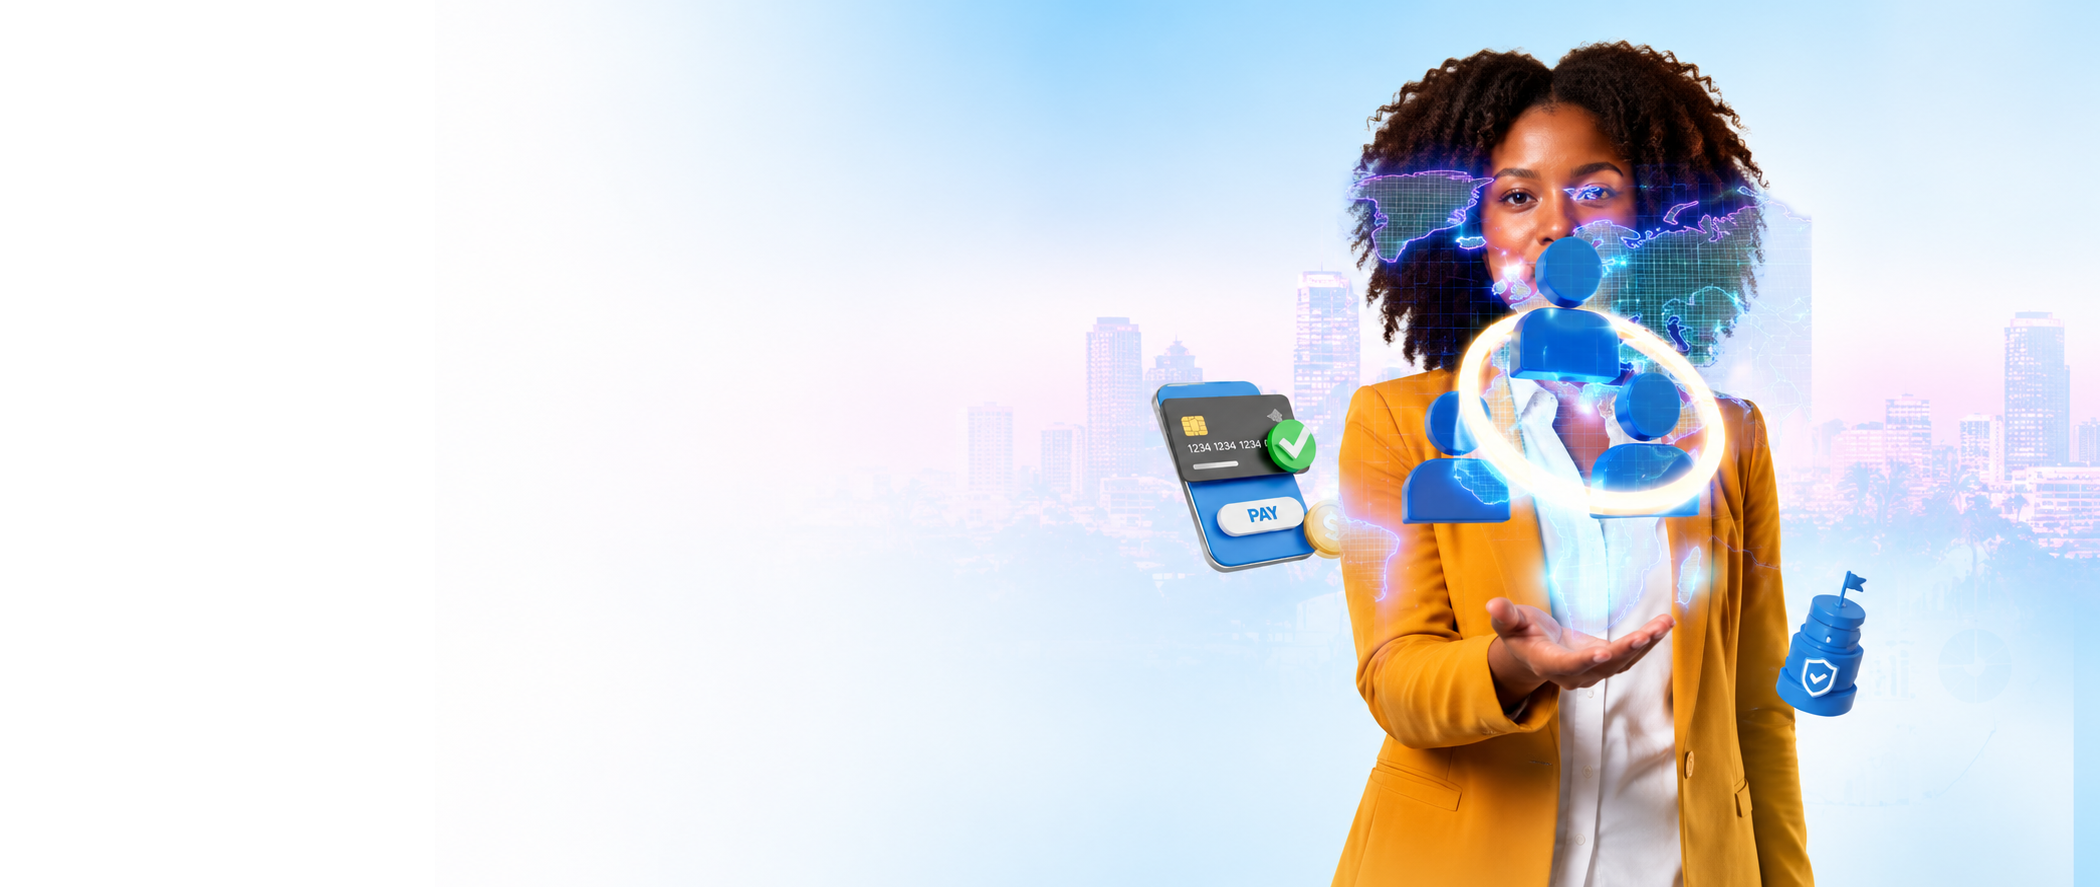
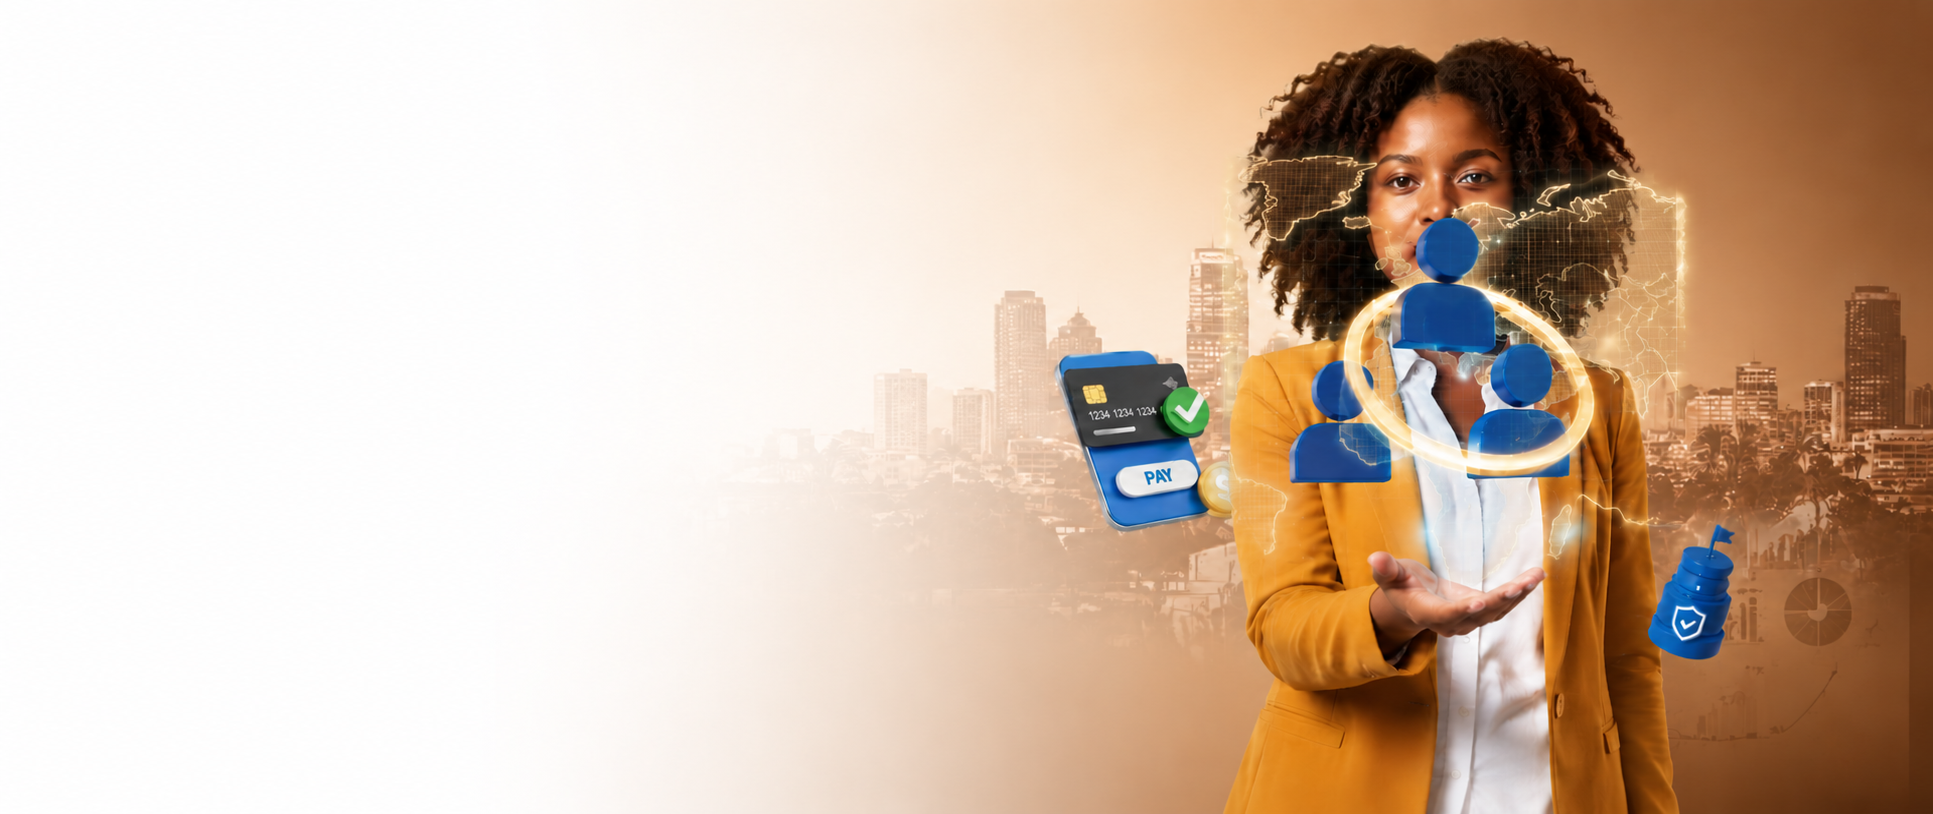
Form submission, color change

diff --git a/public/css/cherub.css b/public/css/cherub.css
@@ -6,8 +6,8 @@
   --green-dark: #924228;
   --green-mid: #7a3520;
   --caribbean: #07d788;
-  --zanah: #CAE7C7;
-  --supernova: #FCCC04;
+  --zanah: #fde8d0;
+  --supernova: #fe7c02;
   --orange: #fe7c02;
   --orange-hover: #924228;
   --text: #111111;
@@ -15,7 +15,7 @@
   --text-light: #888888;
   --border: #e0e0e0;
   --bg: #ffffff;
-  --bg-light: #edf7ed;
+  --bg-light: #fdf1e9;
   --radius: 6px;
   --max-w: 1760px;
   --px: 52px;
@@ -1339,7 +1339,7 @@ img { max-width: 100%; display: block; }
   height: 54px;
   border-radius: 50%;
   background: var(--supernova);
-  color: var(--green-dark);
+  color: #fff;
   font-weight: 800;
   font-size: 17px;
   display: flex;
@@ -1776,12 +1776,39 @@ img { max-width: 100%; display: block; }
   justify-content: center;
   gap: 9px;
 }
-.ch-form__submit:hover { background: var(--green-mid); }
+.ch-form__submit:hover:not(:disabled) { background: var(--green-mid); }
+.ch-form__submit:disabled { opacity: 0.75; cursor: not-allowed; }
+
+.ch-form__submit-loading { display: none; align-items: center; gap: 9px; }
+.ch-form__submit--loading .ch-form__submit-idle { display: none; }
+.ch-form__submit--loading .ch-form__submit-loading { display: flex; }
+
+@keyframes ch-spin { to { transform: rotate(360deg); } }
+.ch-form__spinner {
+  width: 16px;
+  height: 16px;
+  border: 2px solid rgba(255,255,255,0.35);
+  border-top-color: #fff;
+  border-radius: 50%;
+  animation: ch-spin 0.7s linear infinite;
+  flex-shrink: 0;
+}
 .ch-form__note {
   text-align: center;
   font-size: 12px;
   color: var(--text-light);
   margin-top: 12px;
+}
+/* Honeypot trap: visually hidden but present in DOM so bots fill it */
+.ch-hp-trap {
+  position: absolute;
+  left: -9999px;
+  top: -9999px;
+  width: 1px;
+  height: 1px;
+  overflow: hidden;
+  opacity: 0;
+  pointer-events: none;
 }
 
 /* =========================================================
@@ -2345,7 +2372,7 @@ img { max-width: 100%; display: block; }
 /* Accent gradient shimmer on hero heading */
 .ch-hero__heading .accent {
   display: inline-block;
-  background: linear-gradient(110deg, var(--orange) 0%, #d86526 38%, var(--supernova) 65%, var(--orange) 100%);
+  background: linear-gradient(110deg, var(--orange) 0%, #d86526 38%, var(--caribbean) 65%, var(--orange) 100%);
   background-size: 220% auto;
   -webkit-background-clip: text;
   -webkit-text-fill-color: transparent;

diff --git a/resources/views/front/contact.blade.php b/resources/views/front/contact.blade.php
@@ -117,9 +117,9 @@
     <!-- RIGHT: Form -->
     <div>
       @if(session('success'))
-        <div style="background:#dcfce7;border:1px solid #86efac;border-radius:6px;padding:20px 24px;margin-bottom:24px;display:flex;align-items:center;gap:12px;">
-          <i class="fas fa-check-circle" style="color:#16a34a;font-size:20px;"></i>
-          <p style="font-size:14px;color:#166534;font-weight:600;">{{ session('success') }}</p>
+        <div style="background:#fdf1e9;border:1px solid #fec78a;border-radius:6px;padding:20px 24px;margin-bottom:24px;display:flex;align-items:center;gap:12px;">
+          <i class="fas fa-check-circle" style="color:#fe7c02;font-size:20px;"></i>
+          <p style="font-size:14px;color:#924228;font-weight:600;">{{ session('success') }}</p>
         </div>
       @endif
 
@@ -208,14 +208,33 @@
             @error('message')<p style="font-size:12px;color:#dc2626;margin-top:4px;">{{ $message }}</p>@enderror
           </div>
 
-          <button type="submit" class="ch-form__submit">
-            Send Message <i class="fas fa-paper-plane"></i>
+          {{-- Honeypot: invisible to humans, bots fill it automatically --}}
+          <div class="ch-hp-trap" aria-hidden="true">
+            <label for="hp_fullname">Full Name (leave blank)</label>
+            <input type="text" name="hp_fullname" id="hp_fullname" value="" autocomplete="off" tabindex="-1">
+          </div>
+          <input type="hidden" name="form_ts" value="{{ time() }}">
+
+          <button type="submit" class="ch-form__submit" id="contactSubmitBtn">
+            <span class="ch-form__submit-idle">Send Message <i class="fas fa-paper-plane"></i></span>
+            <span class="ch-form__submit-loading" aria-hidden="true">
+              <span class="ch-form__spinner"></span> Sending…
+            </span>
           </button>
           <p class="ch-form__note">
             <i class="fas fa-lock" style="margin-right:4px;"></i>
             Your information is kept confidential and never shared with third parties.
           </p>
         </form>
+
+        <script>
+          document.querySelector('form[action="{{ route('contact.send') }}"]')
+            .addEventListener('submit', function () {
+              var btn = document.getElementById('contactSubmitBtn');
+              btn.disabled = true;
+              btn.classList.add('ch-form__submit--loading');
+            });
+        </script>
       </div>
     </div>
 

diff --git a/resources/views/emails/contact.blade.php b/resources/views/emails/contact.blade.php
@@ -1,0 +1,62 @@
+<!DOCTYPE html>
+<html lang="en">
+<head>
+  <meta charset="UTF-8">
+  <style>
+    body { font-family: Arial, sans-serif; color: #111; margin: 0; padding: 0; background: #f4f4f4; }
+    .wrap { max-width: 600px; margin: 32px auto; background: #fff; border-radius: 8px; overflow: hidden; }
+    .header { background: #924228; padding: 28px 32px; }
+    .header h1 { color: #fff; font-size: 18px; margin: 0; }
+    .header p { color: rgba(255,255,255,0.75); font-size: 13px; margin: 6px 0 0; }
+    .body { padding: 32px; }
+    .field { margin-bottom: 20px; }
+    .label { font-size: 11px; font-weight: 700; text-transform: uppercase; letter-spacing: 0.1em; color: #888; margin-bottom: 4px; }
+    .value { font-size: 15px; color: #111; }
+    .message-box { background: #fdf1e9; border-left: 4px solid #fe7c02; padding: 16px 20px; border-radius: 4px; font-size: 15px; line-height: 1.7; color: #333; }
+    .footer { background: #f9f9f9; border-top: 1px solid #eee; padding: 20px 32px; font-size: 12px; color: #999; }
+  </style>
+</head>
+<body>
+  <div class="wrap">
+    <div class="header">
+      <h1>New Enquiry from Website</h1>
+      <p>Submitted via cherubapps.africa contact form</p>
+    </div>
+    <div class="body">
+      <div class="field">
+        <div class="label">Name</div>
+        <div class="value">{{ $data['name'] }}</div>
+      </div>
+      <div class="field">
+        <div class="label">Email</div>
+        <div class="value"><a href="mailto:{{ $data['email'] }}" style="color:#fe7c02;">{{ $data['email'] }}</a></div>
+      </div>
+      @if(!empty($data['phone']))
+      <div class="field">
+        <div class="label">Phone</div>
+        <div class="value">{{ $data['phone'] }}</div>
+      </div>
+      @endif
+      @if(!empty($data['company']))
+      <div class="field">
+        <div class="label">Organization</div>
+        <div class="value">{{ $data['company'] }}</div>
+      </div>
+      @endif
+      @if(!empty($data['service']))
+      <div class="field">
+        <div class="label">Area of Interest</div>
+        <div class="value">{{ $data['service'] }}</div>
+      </div>
+      @endif
+      <div class="field">
+        <div class="label">Message</div>
+        <div class="message-box">{{ $data['message'] }}</div>
+      </div>
+    </div>
+    <div class="footer">
+      Reply directly to this email to respond to {{ $data['name'] }}.
+    </div>
+  </div>
+</body>
+</html>

diff --git a/app/Http/Controllers/PageController.php b/app/Http/Controllers/PageController.php
@@ -2,9 +2,11 @@
 
 namespace App\Http\Controllers;
 
+use App\Mail\ContactFormMail;
 use App\Models\Category;
 use App\Models\Post;
 use Illuminate\Http\Request;
+use Illuminate\Support\Facades\Mail;
 
 class PageController extends Controller
 {
@@ -49,11 +51,28 @@ class PageController extends Controller
     }
 
     public function sendContact(\Illuminate\Http\Request $request){
-        $request->validate([
+        // Honeypot: real users leave this blank; bots fill it
+        if (!empty($request->input('hp_fullname'))) {
+            return redirect()->route('contact')->with('success', 'Thank you! We will get back to you within 24 hours.');
+        }
+
+        // Time check: reject submissions faster than 4 seconds (bots are instant)
+        $formTs = (int) $request->input('form_ts', 0);
+        if ($formTs === 0 || (time() - $formTs) < 4) {
+            return redirect()->route('contact')->with('success', 'Thank you! We will get back to you within 24 hours.');
+        }
+
+        $validated = $request->validate([
             'name'    => 'required|string|max:100',
-            'email'   => 'required|email',
+            'email'   => 'required|email|max:255',
+            'company' => 'nullable|string|max:150',
+            'phone'   => 'nullable|string|max:30',
+            'service' => 'nullable|string|max:100',
             'message' => 'required|string|max:2000',
         ]);
+
+        Mail::to('hello@cherubapps.africa')->send(new ContactFormMail($validated));
+
         return redirect()->route('contact')->with('success', 'Thank you! We will get back to you within 24 hours.');
     }
 

diff --git a/routes/web.php b/routes/web.php
@@ -27,7 +27,7 @@ Route::get('/what-we-do', 'PageController@whatWeDo')->name('what-we-do');
 Route::get('/insights', 'PageController@insights')->name('insights');
 Route::get('/about', 'PageController@about')->name('about');
 Route::get('/contact', 'PageController@contact')->name('contact');
-Route::post('/contact', 'PageController@sendContact')->name('contact.send');
+Route::post('/contact', 'PageController@sendContact')->middleware('throttle:6,1')->name('contact.send');
 Route::get('/posts', 'PageController@posts')->name('posts');
 Route::get('/posts/{post}', 'PageController@showPost')->name('posts.view');
 Route::get('/category/{category}', 'PageController@showCategory')->name('categories.view');

diff --git a/app/Mail/ContactFormMail.php b/app/Mail/ContactFormMail.php
@@ -1,0 +1,22 @@
+<?php
+
+namespace App\Mail;
+
+use Illuminate\Bus\Queueable;
+use Illuminate\Mail\Mailable;
+use Illuminate\Queue\SerializesModels;
+
+class ContactFormMail extends Mailable
+{
+    use Queueable, SerializesModels;
+
+    public function __construct(public array $data) {}
+
+    public function build(): static
+    {
+        return $this
+            ->subject('New Enquiry: ' . $this->data['name'])
+            ->replyTo($this->data['email'], $this->data['name'])
+            ->view('emails.contact');
+    }
+}

diff --git a/resources/views/layouts/front.blade.php b/resources/views/layouts/front.blade.php
@@ -21,7 +21,7 @@
   <meta name="author" content="Cherub Apps Consult">
   <meta name="robots" content="@yield('seo_robots', 'index, follow, max-snippet:-1, max-image-preview:large, max-video-preview:-1')">
   <meta name="googlebot" content="index, follow">
-  <meta name="theme-color" content="#0d2c1e">
+  <meta name="theme-color" content="#924228">
 
   {{-- Canonical URL --}}
   <link rel="canonical" href="{{ url()->current() }}">
